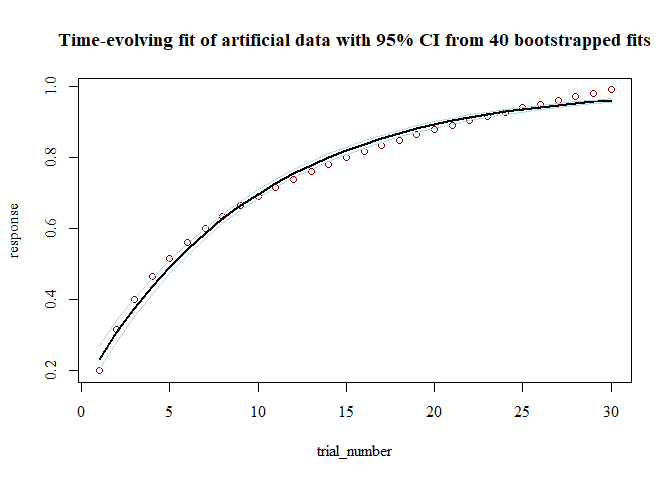
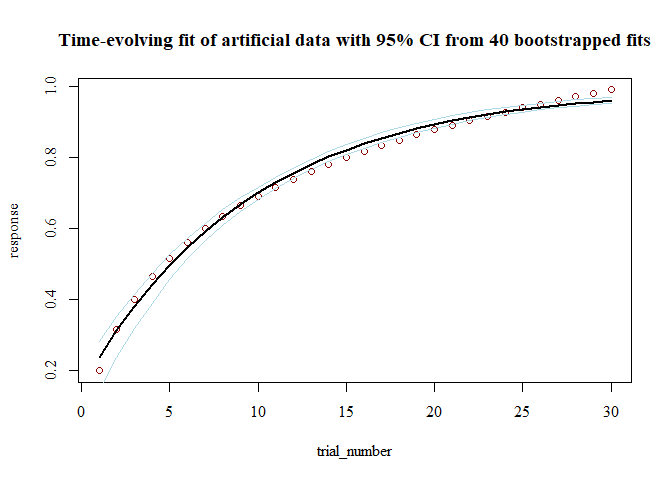
Update README

diff --git a/README.md b/README.md
@@ -69,7 +69,7 @@ dat <- data.frame(response=log(2:31)/log(32),trial_number=1:30)
 # fit a `TEfit` model
 mod_boot <- TEfit(dat[,c('response','trial_number')], 
              errFun='bernoulli',
-             bootPars=list(nBoots=40))
+             bootPars=tef_bootList(resamples = 40))
 plot(mod_boot,plot_title='Time-evolving fit of artificial data with 95% CI from 40 bootstrapped fits')
 ```
 
@@ -86,19 +86,19 @@ summary(mod_boot)
     ## 
     ## >> Fit Values:
     ##        Estimate  Q025  Q975 pseudoSE
-    ## pAsym     1.000 0.999 1.000    0.000
-    ## pRate     2.738 2.674 2.820    0.037
-    ## pStart    0.231 0.202 0.273    0.018
+    ## pAsym     0.998 0.985 1.000    0.004
+    ## pRate     2.730 2.544 2.808    0.067
+    ## pStart    0.238 0.144 0.284    0.036
     ## 
     ## >> Goodness-of-fit:
     ##                err  nullErr nPars nObs      BIC  nullBIC    deltaBIC
-    ## bernoulli 13.42313 16.83409     3   30 37.04985 37.06937 -0.01952056
+    ## bernoulli 13.42604 16.83409     3   30 37.05566 37.06937 -0.01370674
     ## 
     ## >> Test of change in nonindependence:
     ##                          rawSpearman modelConditionalSpearman
-    ## response ~ trial_number:          -1              -0.03581758
+    ## response ~ trial_number:          -1               -0.1497219
     ##                          proportionalSpearmanChange pValSpearmanChange
-    ## response ~ trial_number:                 0.03581758                  0
+    ## response ~ trial_number:                  0.1497219                  0
     ##                          pval_KPSS_null pval_KPSS_model
     ## response ~ trial_number:          < .01            > .1
     ## 
@@ -107,11 +107,11 @@ summary(mod_boot)
     ## >> Timepoint at which resampled estimates diverge from timepoint 1, with Cohen's d>1: 2 
     ## 
     ## >> Bootstrapped parameter correlations:
-    ##         pAsym pStart  pRate    err
-    ## pAsym   1.000  0.102 -0.063 -0.007
-    ## pStart  0.102  1.000  0.635  0.749
-    ## pRate  -0.063  0.635  1.000  0.254
-    ## err    -0.007  0.749  0.254  1.000
+    ##         pAsym pStart pRate    err
+    ## pAsym   1.000 -0.305 0.153 -0.160
+    ## pStart -0.305  1.000 0.652  0.564
+    ## pRate   0.153  0.652 1.000  0.381
+    ## err    -0.160  0.564 0.381  1.000
 
 Fitting multiple models
 -----------------------
@@ -149,16 +149,16 @@ summary(mod_4group)
     ## >> Formula: response ~ ((pAsym) + ((pStart) - (pAsym)) * 2^((1 - trial_number)/(2^(pRate))))
     ## 
     ## >> Overall effects:
-    ##             pAsym     pStart     pRate
-    ## mean   0.14917782 0.01639250 3.8334249
-    ## stdErr 0.03933358 0.01060408 0.0242443
+    ##            pAsym     pStart      pRate
+    ## mean   0.1492270 0.01639027 3.83366264
+    ## stdErr 0.0393339 0.01060448 0.02431836
     ## 
     ##                 err    nullErr nPars nObs      Fval         Pval   Rsquared
-    ## mean   3.005960e-04 0.03071614     3   30 1691.6981 1.110223e-16 0.97598425
-    ## stdErr 6.862523e-05 0.01187769     0    0  653.0905 1.110223e-16 0.01661321
+    ## mean   3.005041e-04 0.03071614     3   30 1692.5939 1.110223e-16 0.97598962
+    ## stdErr 6.864644e-05 0.01187769     0    0  653.4848 1.110223e-16 0.01661145
     ##                BIC    nullBIC   deltaBIC  linkFun errFun changeFun converged
-    ## mean   -337.326328 -211.91820 -125.40813 identity    ols      expo         1
-    ## stdErr    6.542565   14.35328   19.25863 identity    ols      expo         0
+    ## mean   -337.338970 -211.91820 -125.42077 identity    ols      expo         1
+    ## stdErr    6.548355   14.35328   19.26152 identity    ols      expo         0
     ##        pValSpearmanChange
     ## mean                    0
     ## stdErr                  0
@@ -168,10 +168,10 @@ summary(mod_4group)
     ## 
     ## >> Parameter Pearson product-moment correlations:
 
-    ##        pAsym pStart  pRate
-    ## pAsym   1.00  1.000 -0.760
-    ## pStart  1.00  1.000 -0.765
-    ## pRate  -0.76 -0.765  1.000
+    ##         pAsym pStart  pRate
+    ## pAsym   1.000  1.000 -0.757
+    ## pStart  1.000  1.000 -0.763
+    ## pRate  -0.757 -0.763  1.000
 
 Using a more common linear regression framework
 -----------------------------------------------
@@ -191,9 +191,9 @@ lines(dat_simple$trial_number,fitted(mod_lm),col='green',lty=2,lwd=2)
 
 TElm parameter estimates:
 
-|  X.Intercept.|  trial\_number|  rate|
-|-------------:|--------------:|-----:|
-|         3.536|         -2.658|  2.89|
+|  X.Intercept.|  trial\_number|   rate|
+|-------------:|--------------:|------:|
+|         3.522|         -2.653|  2.867|
 
 TEfit parameter estimates:
 
